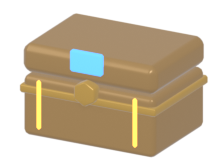
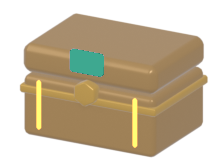
fix(art): the coffer lid gem was the brightest thing on a warm screen (L-08)
The brass coffer lid carried a 34x28 region of #7be1ff - hue 194, saturation 0.52,
value 1.00. Measured against DESIGN.md it matches no token:

    --affinity-mana      #3FA890   h 168   v 0.66
    Glimmer/stat-energy  #3FD0C0   h 172   v 0.82
    --affinity-def-text  #8FB4D9   h 210   v 0.85
    the coffer gem       #7be1ff   h 194   v 1.00   <- matches nothing

Its hue falls between the teals and the def-blue, matching neither, and its value
exceeds every token in the palette - on a screen whose entire register is warm brass
and wood. The identity line is explicit: soft mana-glow, NOT cyber-circuitry. This is
off-spec against the project's own written palette, not a taste preference.

All 779 cool pixels remapped onto --affinity-mana, the mana-core glow tint and the
thematic match for a seal you channel mana into. Internal shading preserved by
scaling value proportionally, so it stays a faceted gem rather than flattening to a
sticker. Reviewed in a rendered frame: it now reads by hue contrast against brass
instead of out-shouting the screen.

smoke_art gained a coffer-face palette check: cool pixels are allowed, but must sit
in the teal band the palette defines (155-190 degrees) and not exceed value 0.85.
Proven both ways - PASS on the fixed asset, and against the original restored on
purpose: "[FAIL] coffer face brass: 779 off-palette cool pixels, first #91c9ff h209
v1.00 at 72,49", ART AUDIT FAIL.
[…]

Changed region(s): [[0.3125, 0.2679, 0.4688, 0.4762]]

diff --git a/loop/ledger.md b/loop/ledger.md
@@ -54,7 +54,36 @@ the gem and brings it to a token.
 **Revert trigger:** the recoloured gem stops reading as a gem in the frame, or the
 new gate cannot be made to fail.
 
-**Result:** *(pending - filled in at Phase 5)*
+**Result: KEPT. All four criteria met.**
+
+1. **On-palette.** All 779 cool pixels remapped onto `--affinity-mana #3FA890`, the
+   mana-core glow tint, which is the thematic match for a seal you channel mana into.
+   Internal shading preserved by scaling value proportionally rather than flattening,
+   so it stays a faceted gem instead of becoming a sticker. Peak value 1.00 -> 0.66.
+2. **Still a gem in the frame.** Rendered and reviewed: it now reads as a teal mana
+   seal against brass, visible by HUE contrast rather than by out-shouting everything
+   else on the screen.
+3. **Gate proven both ways.** `smoke_art` gained a coffer-face palette check.
+   Against the fixed asset: `[PASS] 0 off-palette cool pixels`. Against the original,
+   restored on purpose: `[FAIL] coffer face brass: 779 off-palette cool pixels,
+   first #91c9ff h209 v1.00 at 72,49`, `ART AUDIT FAIL`.
+4. **16/16 gates green.**
+
+**Two mistakes I made inside this iteration, both caught before they shipped:**
+- My first colour sample read every third pixel and reported only the top eight
+  colours, all warm. I nearly closed L-08 as "not a defect" on that. A 34x28 region
+  in a 224x168 image cannot reach a top-eight list. A full scan found it.
+- My first gate insertion used spaces in a tab-indented file and referenced `ok` when
+  this test's accumulator is `proven`. It failed to parse, and the run printed
+  nothing at all - which is exactly the silent-success shape this loop keeps having
+  to catch. It was caught because the expected assertion lines were absent from the
+  output, not because anything went red.
+
+**Out of scope, noted not fixed:** the gem is still a hard-edged rectangle. That is a
+SHAPE problem and it predates this change; the criterion was palette compliance.
+Filed as L-19 at low priority rather than widened into here.
+
+**Next iteration picks:** L-16 (2.0) or L-10 (1.5).
 
 ---
 
